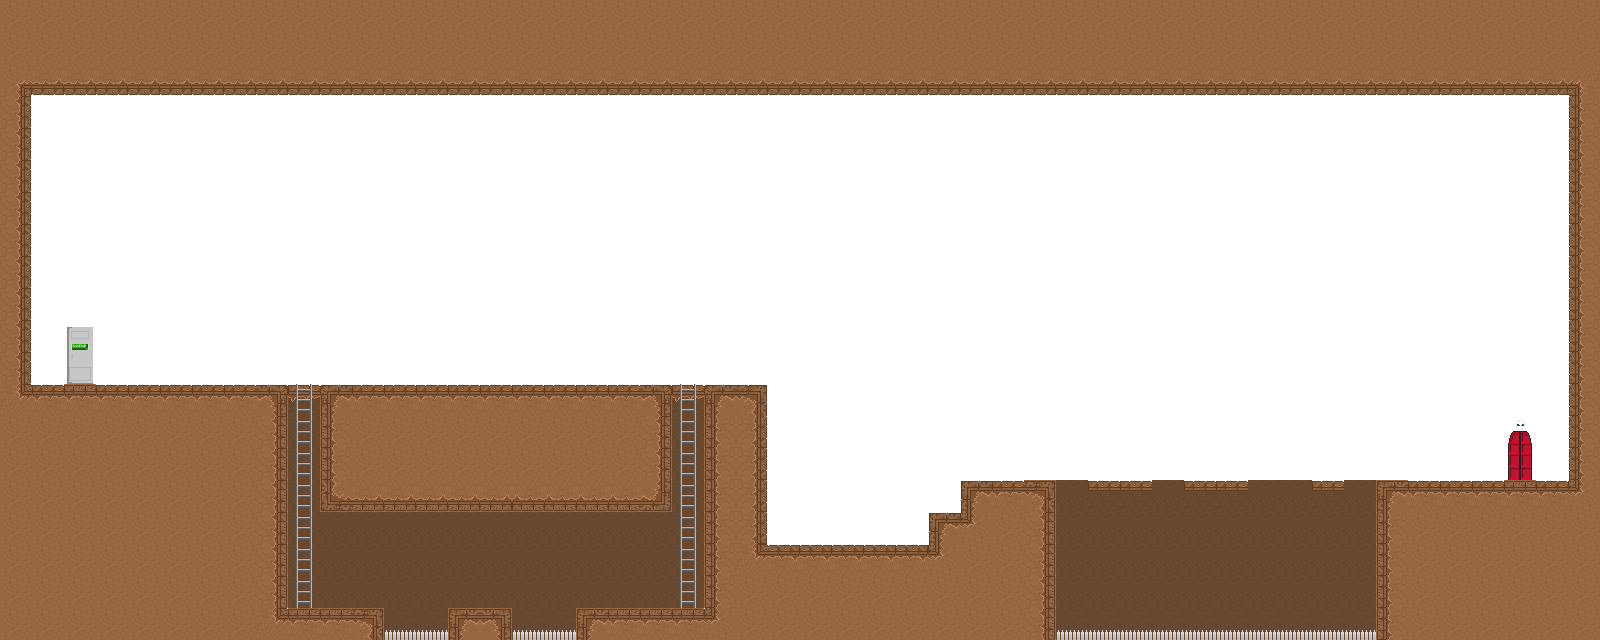
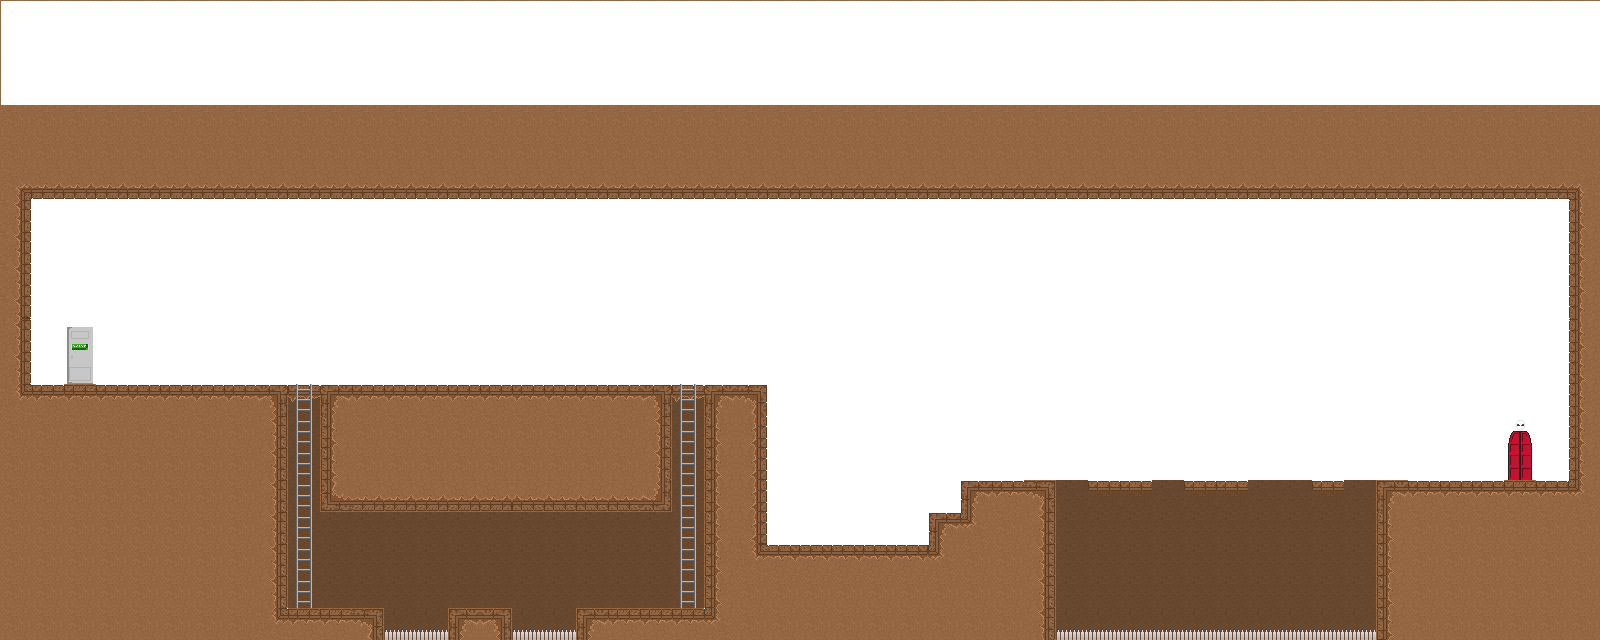
Acabada a modelagem do cenario

Changed region(s): [[0.0, 0.0, 1.0, 0.3125]]

diff --git a/code/scripts/main.js b/code/scripts/main.js
@@ -27,7 +27,8 @@ window.addEventListener("load", function () {
       this.CameraX = 0;
       this.CameraY = 0;
       this.tiles = [
-        new Tile(0, this.height - this.groundMargin-602, 66, 602, 0, 86, 32, 306),
+        new Tile(66, this.height - this.groundMargin-560, 3200, 270, 106, 66, 1600, 135),
+        new Tile(0, this.height - this.groundMargin-560, 66, 560, 0, 66, 32, 280),
         new Tile(0, this.height - this.groundMargin, 580, 510, 0, 384, 290, 255),
         new Tile(580+64, this.height - this.groundMargin, 792, 192, 320, 383, 353, 127),
         new Tile(580, this.height - this.groundMargin + 448, 300, 66, 288, 607, 97, 35),
@@ -36,21 +37,22 @@ window.addEventListener("load", function () {
         new Tile(1496, this.height - this.groundMargin, 128, 513,704,385,64,255),
         new Tile(1624, this.height - this.groundMargin + 324, 324, 188,769,546,162,94),
         new Tile(1948, this.height - this.groundMargin + 260, 66, 254,930,514,33,127),
-        new Tile(2014, this.height - this.groundMargin + 198, 188, 310,962,482,94,158),
+        new Tile(2014, this.height - this.groundMargin + 198, 188, 314,962,482,94,158),
         new Tile(2080+188+33, this.height - this.groundMargin + 198, 132, 25,1089,481,60,10),
         new Tile(2499, this.height - this.groundMargin + 198,  132, 25,1089,481,60,10),
         new Tile(2499+132+99, this.height - this.groundMargin + 198,  64, 25,1313,481,32,10),
         new Tile(2858, this.height - this.groundMargin + 198, 386, 320,1377,481,193,160),
-        new Tile(2858+386,this.height - this.groundMargin - 572, 60, 1088,1570,96,30,544),
+        new Tile(2858+386,this.height - this.groundMargin - 572, 60, 1086,1570,96,30,544),
       ];
       this.stairs = [
+        //new Stairs(100, this.height - this.groundMargin - 500, 64, 650,288,385,32,224),
         new Stairs(580, this.height - this.groundMargin, 64, 450,288,385,32,224),
         new Stairs(1436, this.height - this.groundMargin, 64, 450,672,386,32,224),
       ];
       this.thorns = [
-        //new Thorns(900, this.height - this.groundMargin + 25 + 400, 180, 100),
-        //new Thorns(1480, this.height - this.groundMargin + 25 + 400, 200, 100),
-        //new Thorns(2980, this.height - this.groundMargin + 100 + 200, 1075, 100),
+        new Thorns(580+300, this.height - this.groundMargin + 448 + 37,130, 25, 385, 630, 65,10),
+        new Thorns(1008+130, this.height - this.groundMargin + 448 + 37, 130, 25,513,630,65,10),
+        new Thorns(2014+188, this.height - this.groundMargin + 198 + 310 - 20, 658, 25,1057,630,320,10),
       ];
       this.speedTile = 0;
       this.speedTileY = 0;

diff --git a/code/scripts/thorns.js b/code/scripts/thorns.js
@@ -1,10 +1,14 @@
 export class Thorns{
-    constructor(x, y, width, height){
+    constructor(x, y, width, height, xi, yi, xf, yf){
         this.x = x; 
         this.y = y;
         this.width = width;
         this.height = height;
         this.image = document.getElementById("Mapa");
+        this.xi = xi;
+        this.yi = yi;
+        this.xf = xf;
+        this.yf = yf;
     }
 
     update(speed, speedy){
@@ -13,11 +17,17 @@ export class Thorns{
     }
 
     draw(context){
-        context.save();
-        context.fillStyle = "green";
-        context.fillRect(this.x, this.y, this.width, this.height);
-        
-        context.restore();
+        context.drawImage(
+            this.image,
+            this.xi,
+            this.yi,
+            this.xf,
+            this.yf,
+            this.x,
+            this.y,
+            this.width,
+            this.height
+        );;
     }
 
 }
